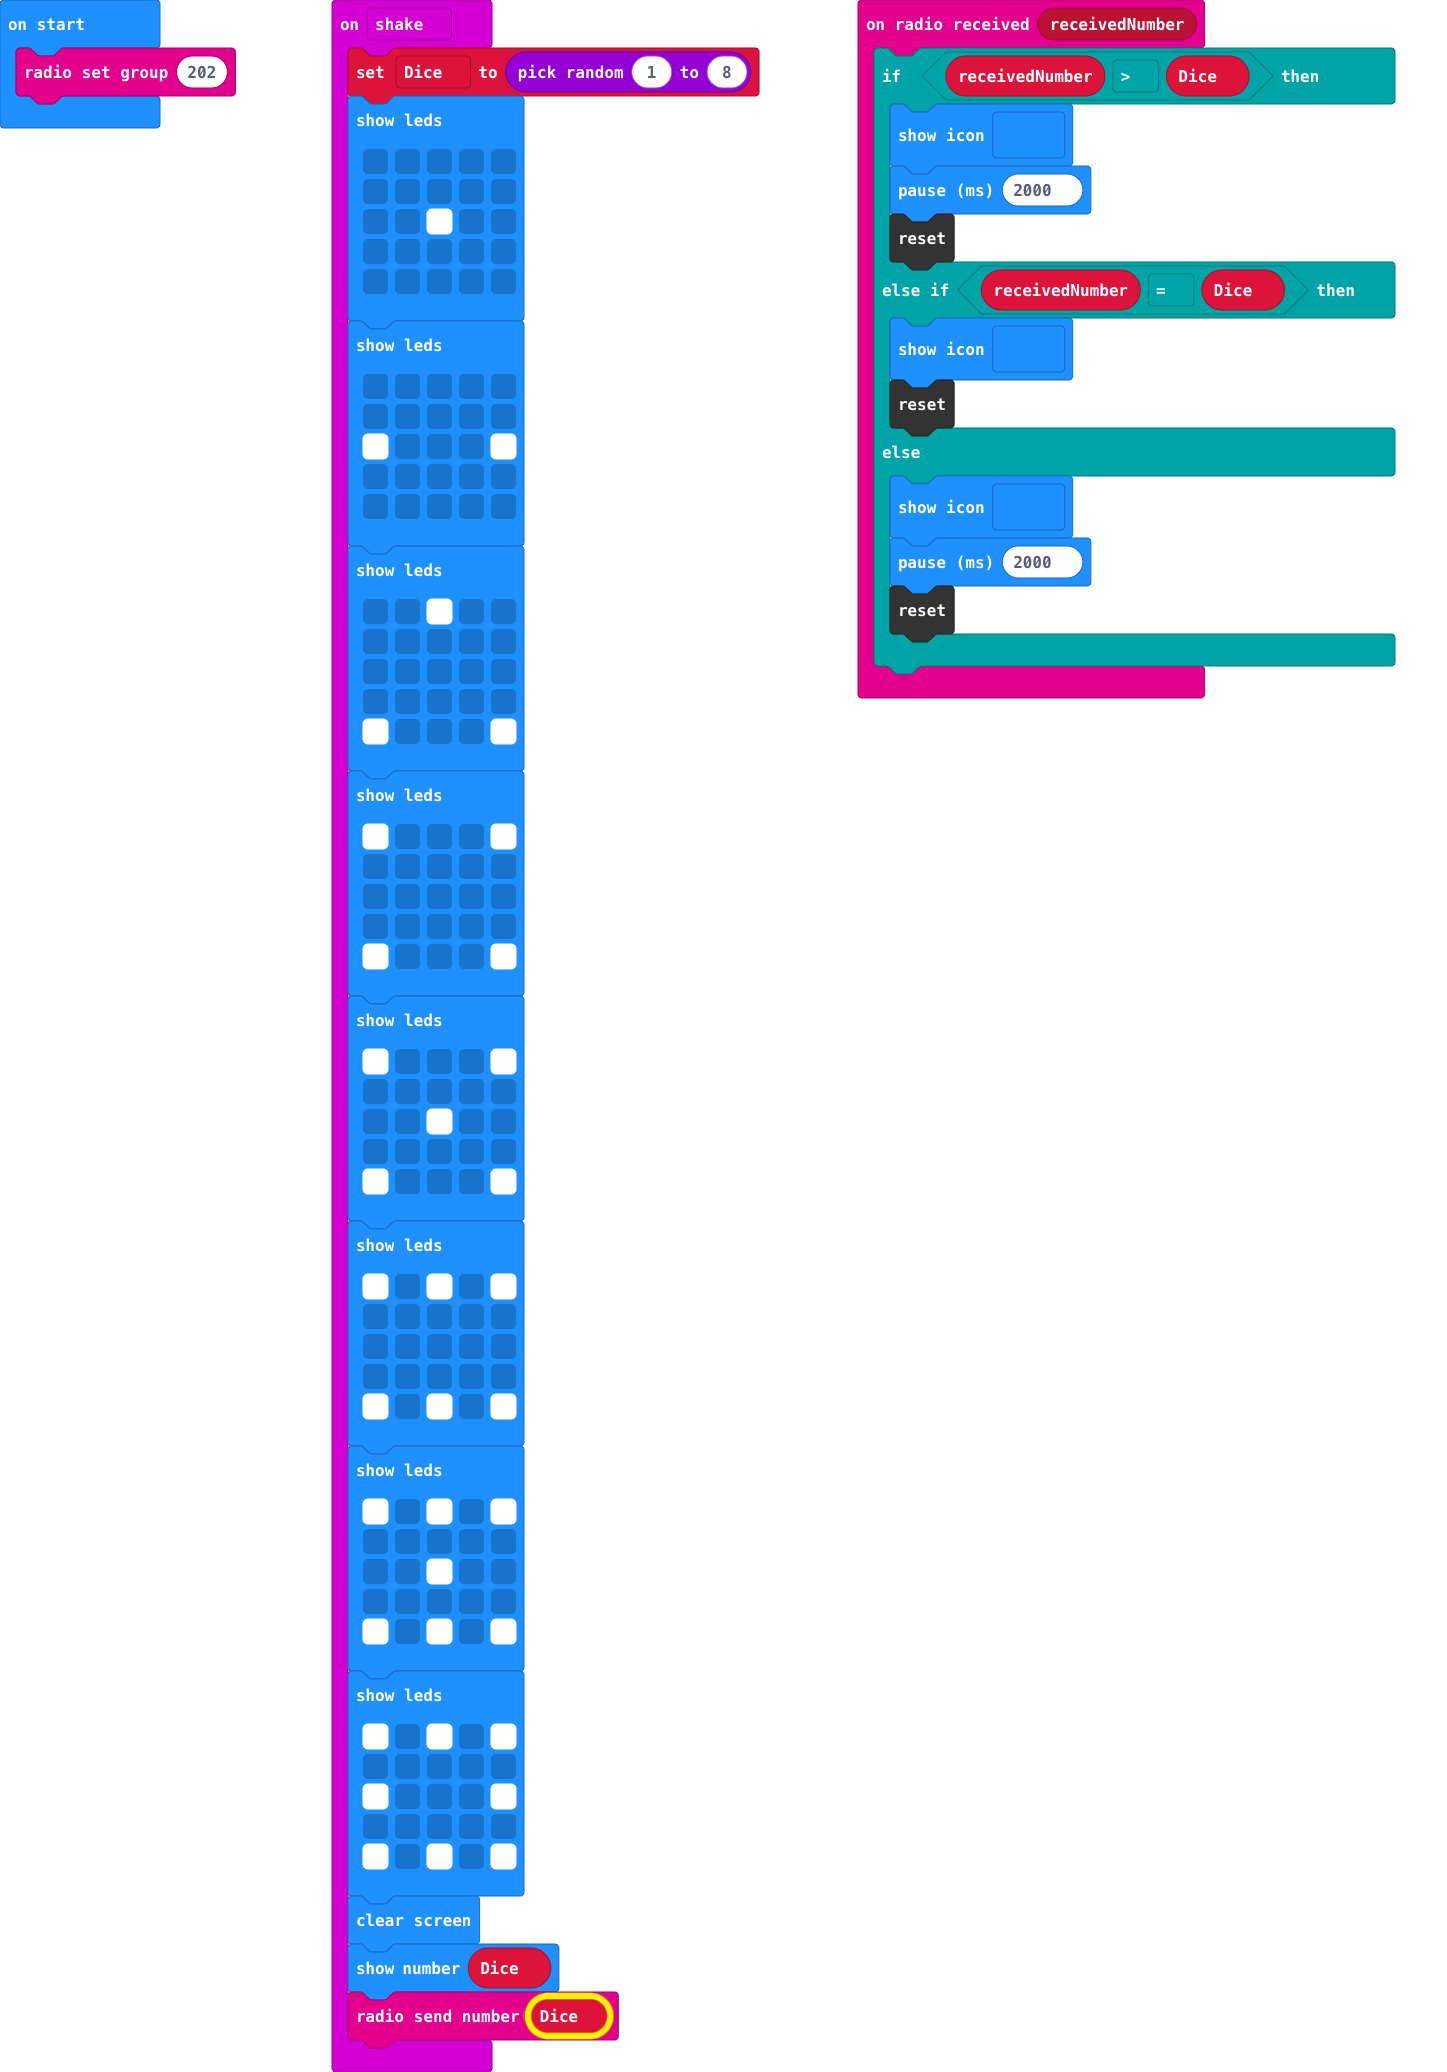
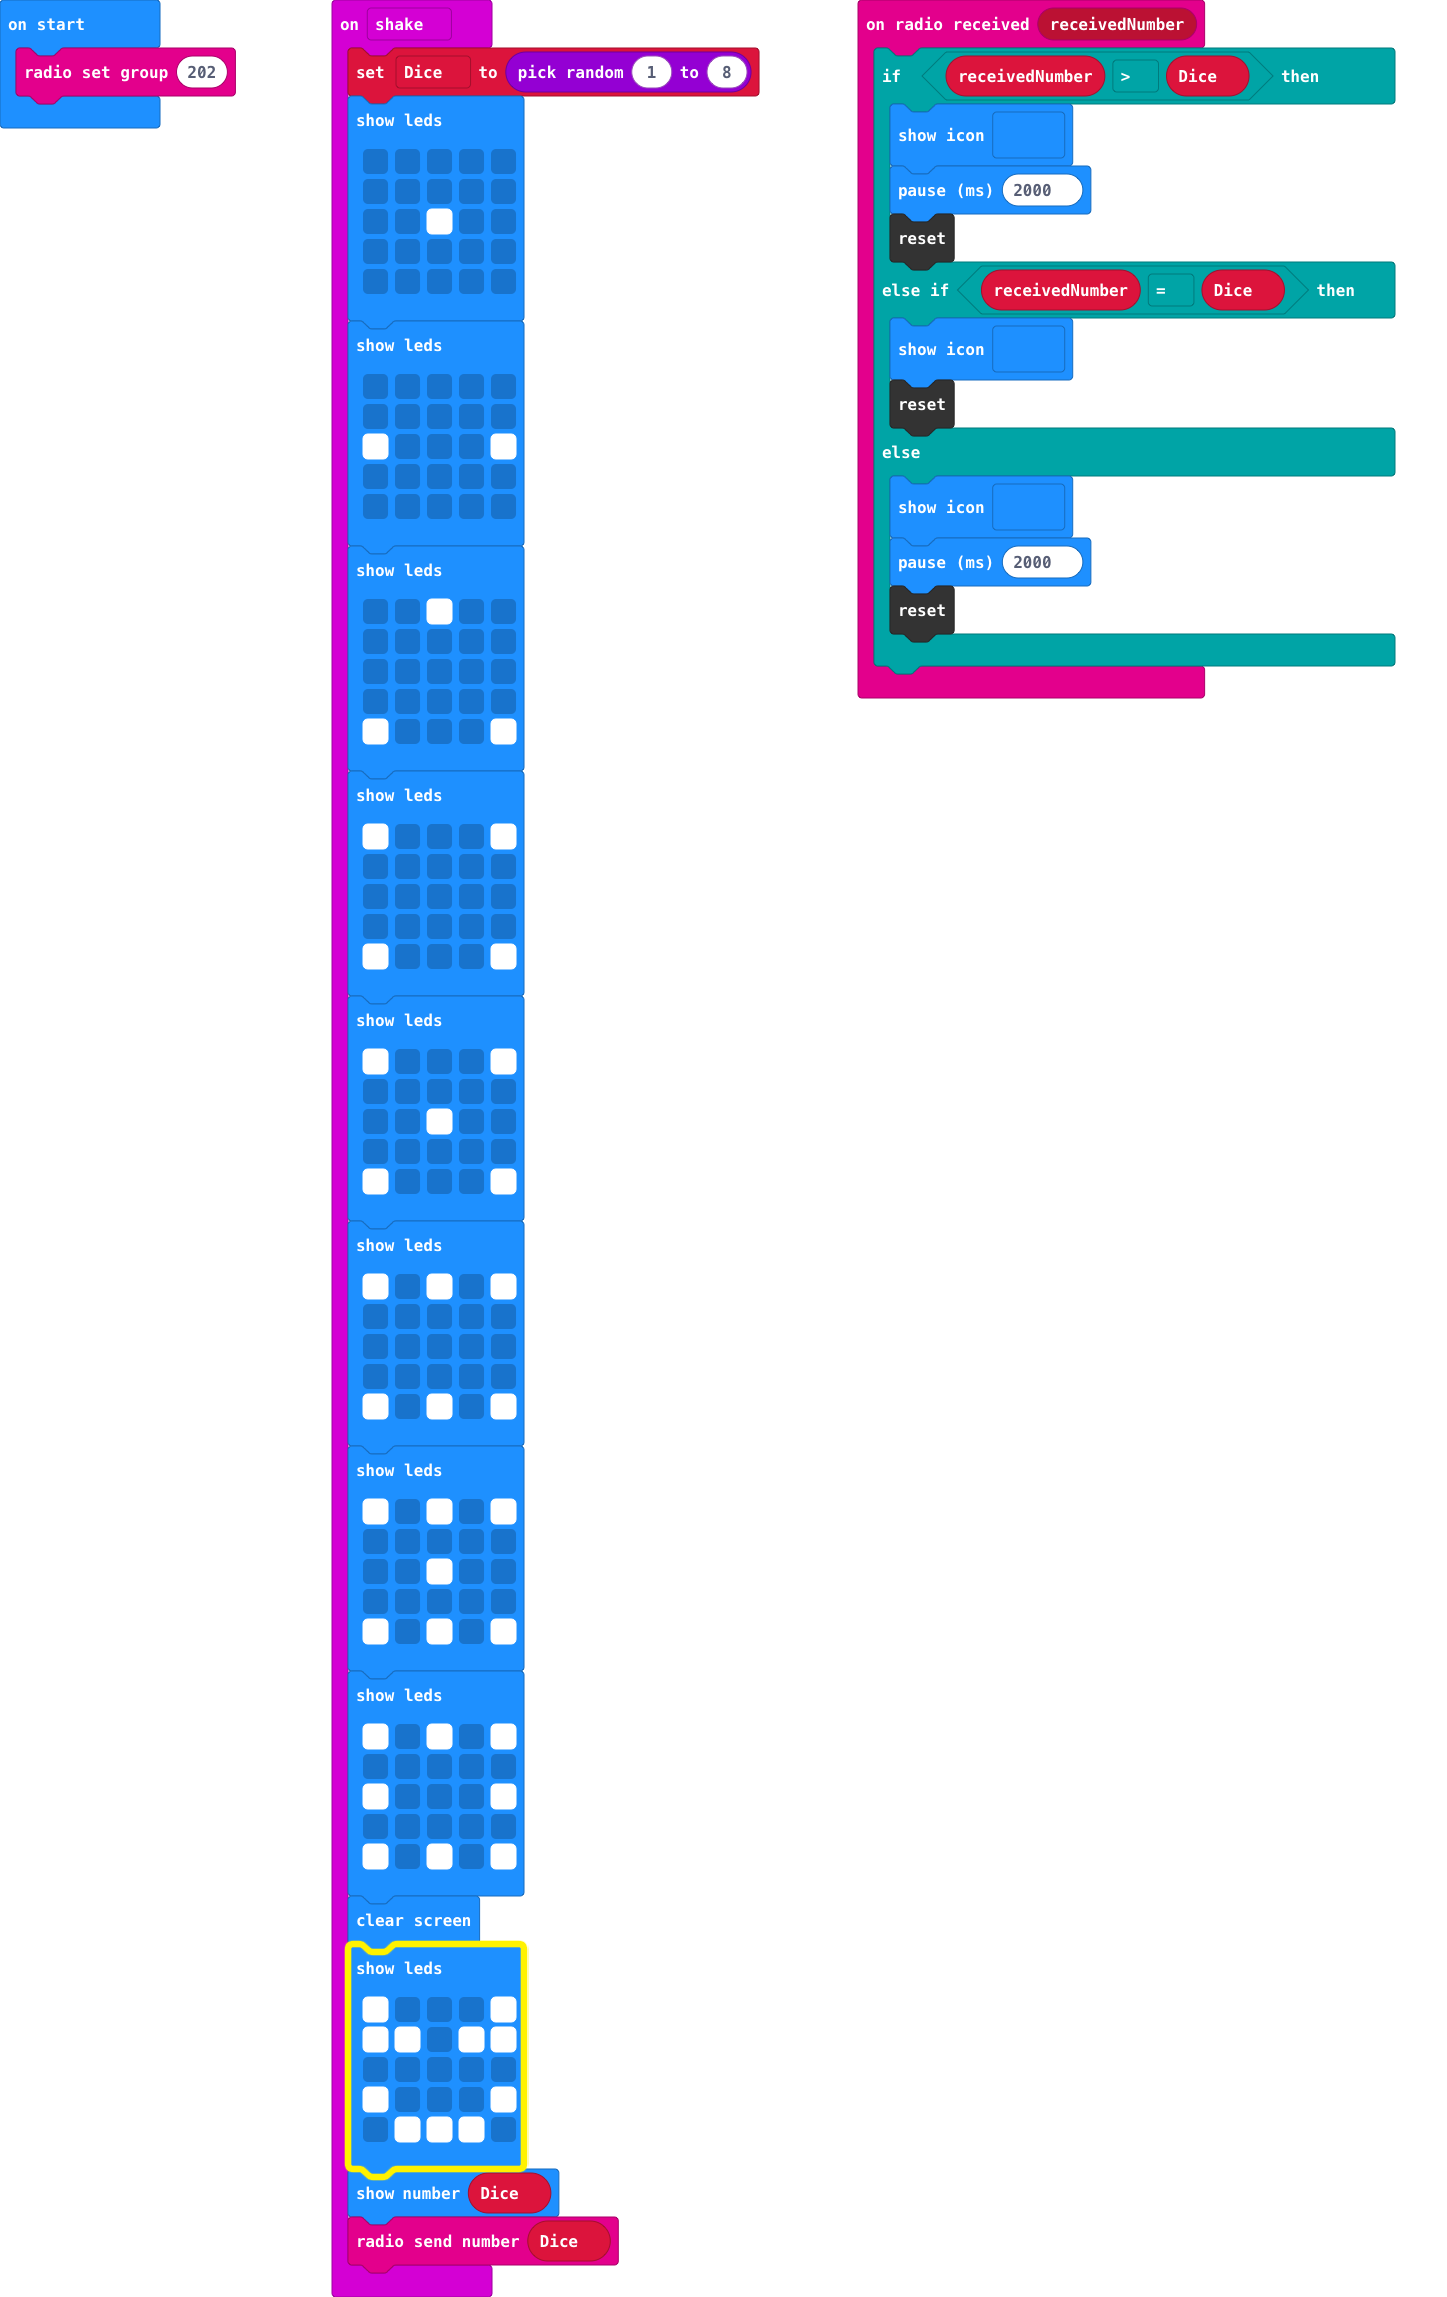
Update main.blocks, main.ts

Changed region(s): [[0.2177, 0.0, 0.5287, 0.9884], [0.5909, 0.0, 0.9641, 0.3398], [0.0, 0.0, 0.1555, 0.0618]]

diff --git a/main.ts b/main.ts
@@ -71,6 +71,13 @@ input.onGesture(Gesture.Shake, function () {
         # . # . #
         `)
     basic.clearScreen()
+    basic.showLeds(`
+        # . . . #
+        # # . # #
+        . . . . .
+        # . . . #
+        . # # # .
+        `)
     basic.showNumber(Dice)
     radio.sendNumber(Dice)
 })
